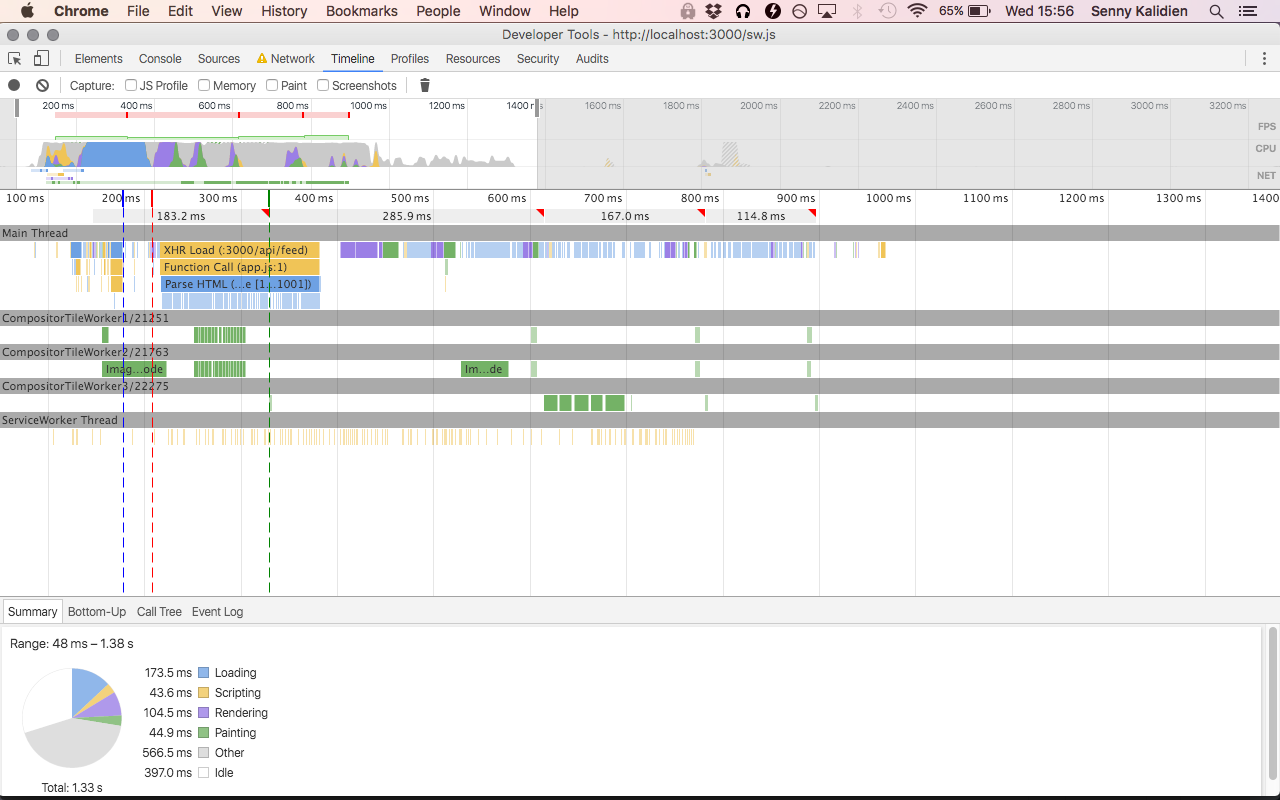
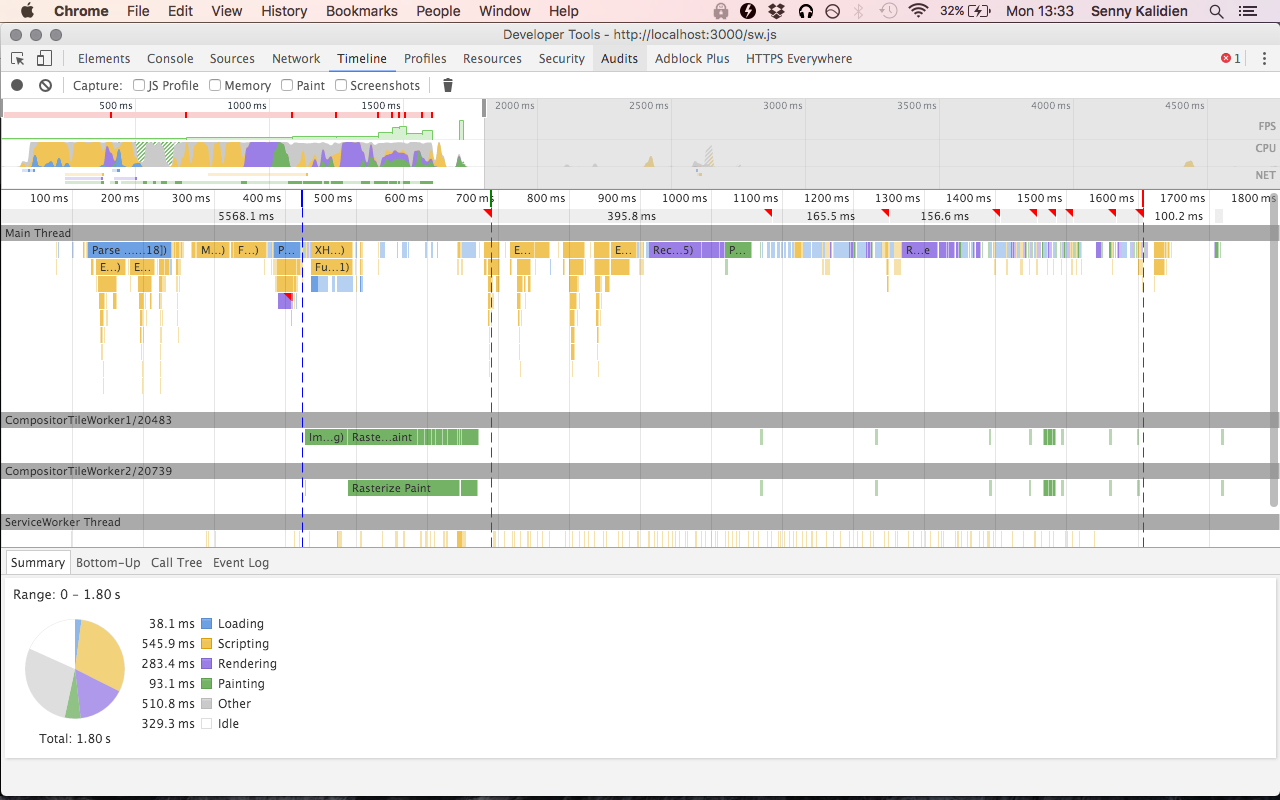
Assignment week 3, draft

diff --git a/README.md b/README.md
@@ -72,7 +72,7 @@ NOTE: Forgot to make a branch for the Service Worker :-(
 
 
 ### With Service Worker
-![alt tag](https://raw.githubusercontent.com/sennykalidien/looklive-server/student/sennykalidien/timeline/service-worker.png)
+![Service Worker performance](https://raw.githubusercontent.com/sennykalidien/looklive-server/student/sennykalidien/timeline/service-worker.png)
 
 In the Service Worker I cached all static files (HTML, CSS, JS, images) and the API feed *on install*. This gives me a HUGE improvement! From 2.55s --> 1.38s = 1.17 seconds won in time. :shipit:
 
@@ -107,3 +107,80 @@ For a web app to be considered as “progressive” it must do these things:
 ### Online web server: Digital Ocean 
 [link to web server](https://performance.directzichtbaar.nl/)
 
+### Conclusion
+
+
+## Performance tracking: assignment week 3
+
+### Task Managers
+For this project I've already used Gulp, proudly I must say, as my Task Manager and I love it! But why am I using Gulp, or a task manager for that matter? Let's dive in! 
+
+**What's a task manager**
+A task manager is a automated JavaScript manager. They automate our task and excecute them without even thinking about it twice, if set up correctly.
+
+**Why use a task manager**
+When you are creating (coding) en deploying in a front-end development website or application, task managers can be handy to take over some of your tasks. Most task managers use Node, and require you to create tasks and install plugins.
+
+Examples of tasks could be:
+- Watching file changes, and when they do:
+- Concatenate and minify files
+- Add prefixes for files in different browsers
+- Lint JavaScript
+
+
+**Popular task managers**
+Most common task managers used nowadays are: 
+- Gulp
+- Grunt
+
+They both use Node, and both require you to craete tasks and install plugins. But the main difference between the two is: speed:  in how they deal with their automation tasks on the inside. *Gulp uses Node streams while Grunt uses temp files.*
+
+Compared to in-memory operations, disk writes are slow which means that Gulp has a big speed advantage (for now).
+
+[source](http://www.hongkiat.com/blog/gulp-vs-grunt/)
+
+**Why I'm using Gulp**
+Gulp is easy to set up, and give me everything I need to work with. It also looked and felt easier to set up and use, which was the biggest reason why I used Gulp. It seemed like the best task mange for a beginner (noob) like me. Although Grunt is more used. 
+
+"Grunt currently receives about 37,000 downloads a day on average, Gulp gets a bit more than half that, near the 23,000 mark."
+
+"Gulp is a good example that code over configuration can be a good thing when configuration gets a bit confusing. Other people say that while this is true and Gulp is easier to read, it is more difficult to write because piping can be a bit confusing."
+
+I agree with the things mentioned above. 
+
+[source](http://www.hongkiat.com/blog/gulp-vs-grunt/)
+
+I Use Gulp for:
+- Source Maps (link the minified JS or CSS files in the browser development tools to the original (unminified) file)
+- Watch (if there is a file change, do certain tasks)
+- Concate (Bundle all files into one single file)
+- Minify JS and CSS
+- Babel (ES6 --> ES5)
+- Image sprites
+- Image optimization (optimize size)
+
+
+### Optimize HTTP Request
+Action points with Gulp:
+- Concatenate (bundle JS and CSS)
+- Uglify (minify JS)
+- CSS Nano (minify CSS)
+
+![HTTP request](https://raw.githubusercontent.com/sennykalidien/looklive-server/student/sennykalidien/timeline/gulp-minified.png)
+
+We keep on winning, from 1.80s --> 1.38s. That's 0.42s won in time. Yes!
+
+### Optimize Content Images
+![HTTP request](https://raw.githubusercontent.com/sennykalidien/looklive-server/student/sennykalidien/timeline/gulp-minified.png)
+
+### Optimize Web Fonts
+- FOIT vs FOUT
+
+
+### Optimize Content Images
+
+
+### EXTRA: Staging + Production environment
+
+
+### EXTRA: Cookies
